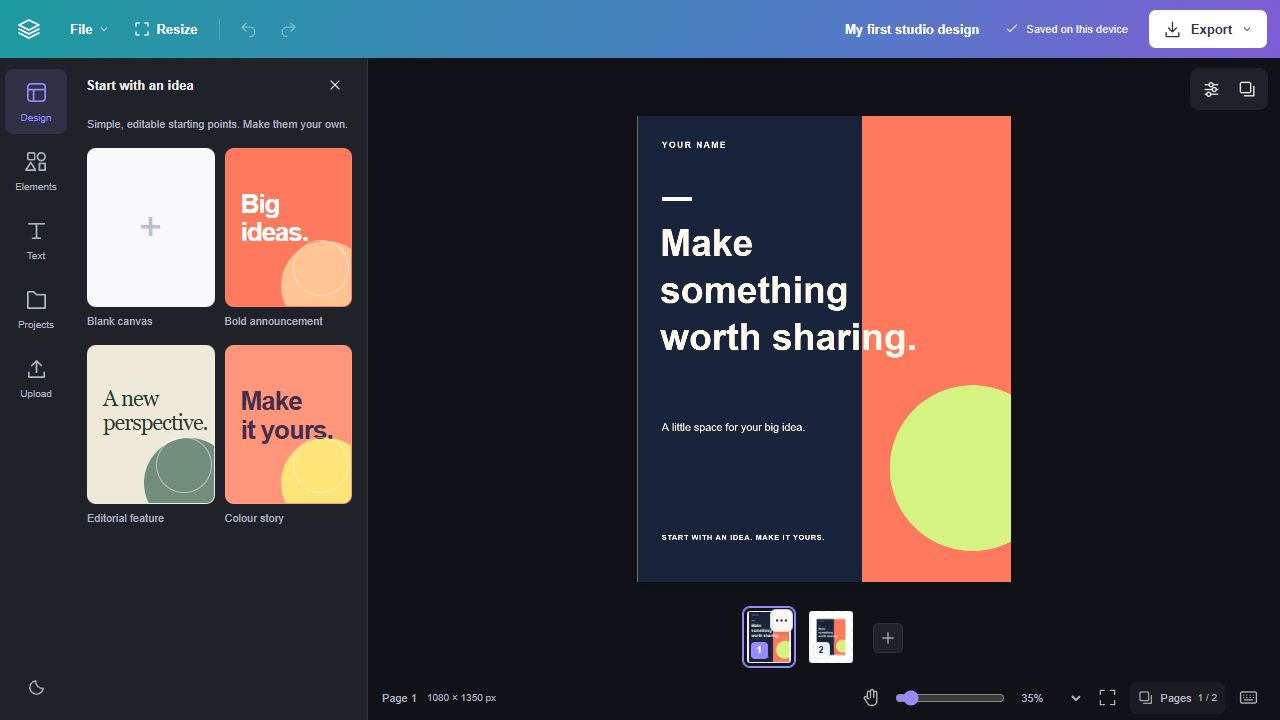
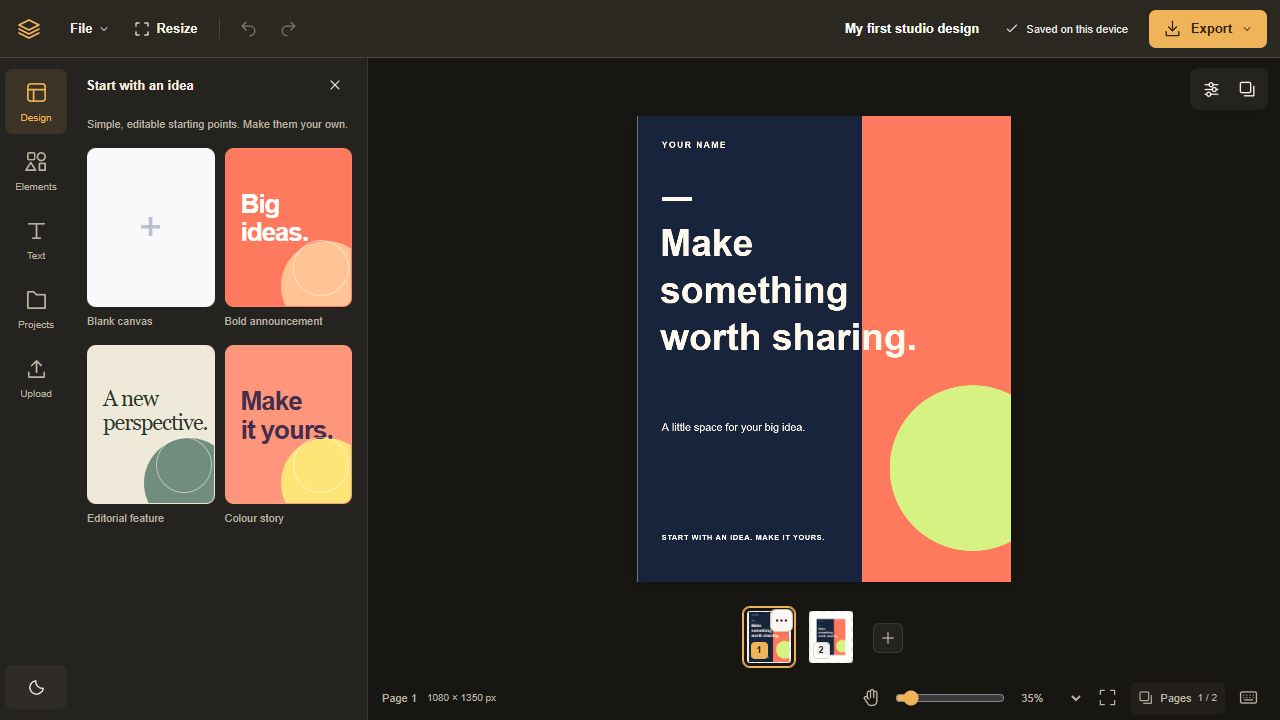
Give editor a charcoal and amber visual identity

diff --git a/src/ui/page-strip.css b/src/ui/page-strip.css
@@ -5,8 +5,8 @@
   min-width: 0;
   padding: 5px 12px 4px;
   border: 0;
-  background: var(--ms-stage-bg, var(--studio-inset, #edf0f4));
-  color: var(--ms-ink, #26354a);
+  background: var(--ms-stage-bg, var(--studio-inset, #eee9df));
+  color: var(--ms-ink, #302a22);
   font: 12px/1.4 Inter, Arial, sans-serif;
 }
 .ms-filmstrip, .ms-filmstrip * { box-sizing: border-box; }
@@ -14,54 +14,54 @@
 .ms-filmstrip-track { display: flex; align-items: center; gap: 5px; width: max-content; max-width: 100%; min-width: 0; margin-inline: auto; }
 .ms-filmstrip-list { --ms-filmstrip-card-width: clamp(52px, calc(var(--ms-filmstrip-preview-height) * var(--ms-filmstrip-page-ratio, .8) + 8px), 104px); display: flex; flex: 0 1 auto; gap: 10px; min-width: 0; margin: 0; padding: 3px 4px 5px; list-style: none; overflow-x: auto; overscroll-behavior-x: contain; scrollbar-width: thin; scroll-padding-inline: 5px; }
 .ms-filmstrip-slide { position: relative; display: flex; flex: 0 0 var(--ms-filmstrip-card-width); flex-direction: column; min-width: 0; padding: 3px; border: 1px solid transparent; border-radius: 7px; background: transparent; }
-.ms-filmstrip-slide.is-selected { border-color: var(--ms-accent, #078492); box-shadow: 0 0 0 1px var(--ms-accent, #078492); }
+.ms-filmstrip-slide.is-selected { border-color: var(--ms-accent, #96600f); box-shadow: 0 0 0 1px var(--ms-accent, #96600f); }
 .ms-filmstrip-slide[draggable=true] { cursor: grab; }
 .ms-filmstrip-slide.is-dragging { opacity: .48; }
-.ms-filmstrip-slide.has-drop-before::before, .ms-filmstrip-slide.has-drop-after::after { content: ''; position: absolute; z-index: 2; top: 0; bottom: 0; width: 3px; border-radius: 2px; background: var(--ms-accent, #078492); }
+.ms-filmstrip-slide.has-drop-before::before, .ms-filmstrip-slide.has-drop-after::after { content: ''; position: absolute; z-index: 2; top: 0; bottom: 0; width: 3px; border-radius: 2px; background: var(--ms-accent, #96600f); }
 .ms-filmstrip-slide.has-drop-before::before { left: -7px; }
 .ms-filmstrip-slide.has-drop-after::after { right: -7px; }
 .ms-filmstrip button { font: inherit; cursor: pointer; box-shadow: none; }
 .ms-filmstrip button:disabled { cursor: not-allowed; opacity: .42; }
-.ms-filmstrip button:focus-visible { outline: 3px solid color-mix(in srgb, var(--ms-accent, #078492) 50%, transparent); outline-offset: 2px; }
+.ms-filmstrip button:focus-visible { outline: 3px solid color-mix(in srgb, var(--ms-accent, #96600f) 50%, transparent); outline-offset: 2px; }
 .ms-filmstrip .ms-filmstrip-select { display: flex; flex-direction: column; align-items: stretch; width: 100%; min-width: 0; padding: 0; border: 0; border-radius: 4px; background: none; color: inherit; text-align: left; }
 .ms-filmstrip .ms-filmstrip-select:disabled { opacity: .7; }
-.ms-filmstrip-preview { position: relative; display: flex; align-items: center; justify-content: center; height: var(--ms-filmstrip-preview-height); min-width: 0; overflow: hidden; border: 1px solid var(--ms-border, #dbe3ee); border-radius: 3px; box-shadow: 0 1px 3px #142c3812; background-image: repeating-conic-gradient(#e9edf0 0% 25%, #fff 0% 50%); background-size: 10px 10px; }
+.ms-filmstrip-preview { position: relative; display: flex; align-items: center; justify-content: center; height: var(--ms-filmstrip-preview-height); min-width: 0; overflow: hidden; border: 1px solid var(--ms-border, #e4d9c9); border-radius: 3px; box-shadow: 0 1px 3px #2b221412; background-image: repeating-conic-gradient(#ece5d9 0% 25%, #fff 0% 50%); background-size: 10px 10px; }
 .ms-filmstrip-preview img { display: block; width: 100%; height: 100%; object-fit: contain; pointer-events: none; user-select: none; }
-.ms-filmstrip-placeholder { display: flex; flex-direction: column; align-items: center; justify-content: center; gap: 3px; width: 100%; height: 100%; padding: 4px; background: var(--studio-inset, #eef1f5); color: var(--ms-muted, #64748b); font-size: 8px; line-height: 1.3; text-align: center; }
+.ms-filmstrip-placeholder { display: flex; flex-direction: column; align-items: center; justify-content: center; gap: 3px; width: 100%; height: 100%; padding: 4px; background: var(--studio-inset, #f5efe5); color: var(--ms-muted, #73695c); font-size: 8px; line-height: 1.3; text-align: center; }
 .ms-filmstrip-placeholder svg { flex: none; width: 17px; height: 17px; opacity: .65; }
-.ms-filmstrip-preview-state { position: absolute; right: 4px; bottom: 5px; width: 6px; height: 6px; padding: 0; overflow: hidden; border-radius: 50%; background: #016e7d; box-shadow: 0 0 0 2px #ffffffd9; font-size: 0; }
-.ms-filmstrip-preview-state.is-error { background: #b6334b; }
-.ms-filmstrip-number { position: absolute; left: 3px; bottom: 3px; display: grid; place-items: center; min-width: 17px; height: 17px; padding: 0 4px; border: 1px solid #c6d4dc80; border-radius: 4px; background: #ffffffed; color: #26354a; font-size: 9px; font-weight: 600; line-height: 1; font-variant-numeric: tabular-nums; }
-.ms-filmstrip-slide.is-selected .ms-filmstrip-number { border-color: var(--ms-accent, #078492); background: var(--ms-accent, #078492); color: #fff; }
+.ms-filmstrip-preview-state { position: absolute; right: 4px; bottom: 5px; width: 6px; height: 6px; padding: 0; overflow: hidden; border-radius: 50%; background: var(--ms-accent, #96600f); box-shadow: 0 0 0 2px #ffffffd9; font-size: 0; }
+.ms-filmstrip-preview-state.is-error { background: var(--studio-err, #a33e2c); }
+.ms-filmstrip-number { position: absolute; left: 3px; bottom: 3px; display: grid; place-items: center; min-width: 17px; height: 17px; padding: 0 4px; border: 1px solid #ccbaa080; border-radius: 4px; background: #ffffffed; color: #302a22; font-size: 9px; font-weight: 600; line-height: 1; font-variant-numeric: tabular-nums; }
+.ms-filmstrip-slide.is-selected .ms-filmstrip-number { border-color: var(--ms-accent, #96600f); background: var(--ms-accent, #96600f); color: var(--studio-on-accent, #fff9ef); }
 .ms-filmstrip-more { position: absolute; top: 0; right: 0; z-index: 3; width: 24px; height: 24px; margin: 0; padding: 0; opacity: 0; pointer-events: none; }
 .ms-filmstrip-slide:hover .ms-filmstrip-more, .ms-filmstrip-slide:focus-within .ms-filmstrip-more, .ms-filmstrip-slide.is-selected .ms-filmstrip-more, .ms-filmstrip-more[open] { opacity: 1; pointer-events: auto; }
-.ms-filmstrip-more > summary { display: grid; place-items: center; width: 24px; height: 24px; margin: 0; padding: 0; border: 0; border-radius: 7px; background: none; color: #26354a; cursor: pointer; list-style: none; }
+.ms-filmstrip-more > summary { display: grid; place-items: center; width: 24px; height: 24px; margin: 0; padding: 0; border: 0; border-radius: 7px; background: none; color: #302a22; cursor: pointer; list-style: none; }
 .ms-filmstrip-more > summary::-webkit-details-marker { display: none; }
 .ms-filmstrip-more > summary::marker { content: ''; }
-.ms-filmstrip-more > summary > span { display: grid; place-items: center; width: 23px; height: 23px; border: 1px solid #c6d4dccc; border-radius: 6px; background: #ffffffed; box-shadow: 0 1px 4px #142c3826; }
+.ms-filmstrip-more > summary > span { display: grid; place-items: center; width: 23px; height: 23px; border: 1px solid #ccbaa0cc; border-radius: 6px; background: #ffffffed; box-shadow: 0 1px 4px #2b221426; }
 .ms-filmstrip-more > summary svg { width: 15px; height: 15px; }
-.ms-filmstrip-more > summary:hover > span, .ms-filmstrip-more[open] > summary > span { border-color: #078492; background: #eaf7f7; }
-.ms-filmstrip-more > summary:focus-visible { outline: 3px solid var(--ms-accent, #078492); outline-offset: -2px; }
+.ms-filmstrip-more > summary:hover > span, .ms-filmstrip-more[open] > summary > span { border-color: #96600f; background: #fff0d7; }
+.ms-filmstrip-more > summary:focus-visible { outline: 3px solid var(--ms-accent, #96600f); outline-offset: -2px; }
 .ms-filmstrip-more > summary[aria-disabled=true] { opacity: .42; cursor: not-allowed; }
 /* This portal is deliberately independent of a Studio ancestor. Theme variables
    are copied from its summary before it opens in the browser's top layer. */
-.ms-filmstrip-menu { display: none; position: fixed; inset: auto; z-index: 10000; width: 216px; max-width: calc(100vw - 24px); max-height: calc(100dvh - 24px); overflow-y: auto; overscroll-behavior: contain; margin: 0; padding: 5px; border: 1px solid var(--ms-border, #dbe3ee); border-radius: 11px; background: var(--ms-bg, var(--studio-surface, #fff)); color: var(--ms-ink, #26354a); box-shadow: 0 10px 35px #142c3838; font: 12px/1.4 Inter, Arial, sans-serif; }
+.ms-filmstrip-menu { display: none; position: fixed; inset: auto; z-index: 10000; width: 216px; max-width: calc(100vw - 24px); max-height: calc(100dvh - 24px); overflow-y: auto; overscroll-behavior: contain; margin: 0; padding: 5px; border: 1px solid var(--ms-border, #e4d9c9); border-radius: 11px; background: var(--ms-bg, var(--studio-surface, #fff)); color: var(--ms-ink, #302a22); box-shadow: 0 10px 35px #2b221438; font: 12px/1.4 Inter, Arial, sans-serif; }
 .ms-filmstrip-menu[data-open=true] { display: grid; }
 .ms-filmstrip-menu, .ms-filmstrip-menu * { box-sizing: border-box; }
-.ms-filmstrip-menu-label { padding: 5px 10px 4px; color: var(--ms-muted, #64748b); font-size: 10px; font-weight: 600; }
+.ms-filmstrip-menu-label { padding: 5px 10px 4px; color: var(--ms-muted, #73695c); font-size: 10px; font-weight: 600; }
 .ms-filmstrip-menu .ms-filmstrip-menu-action { display: flex; align-items: center; gap: 10px; width: 100%; height: auto; min-height: 44px; margin: 0; padding: 10px; border: 0; border-radius: 6px; background: none; color: inherit; box-shadow: none; font: inherit; line-height: 1.4; text-align: left; cursor: pointer; }
 .ms-filmstrip-menu-action svg { flex: none; width: 16px; height: 16px; }
-.ms-filmstrip-menu .ms-filmstrip-menu-action:hover:not(:disabled) { background: var(--studio-control-hover, #e8f0f4); }
-.ms-filmstrip-menu .ms-filmstrip-menu-delete { color: var(--studio-err, #b6334c); }
-.ms-filmstrip-menu .ms-filmstrip-menu-delete:hover:not(:disabled) { background: var(--studio-danger-bg, #fff0f0); }
+.ms-filmstrip-menu .ms-filmstrip-menu-action:hover:not(:disabled) { background: var(--studio-control-hover, #ede5d8); }
+.ms-filmstrip-menu .ms-filmstrip-menu-delete { color: var(--studio-err, #a33e2c); }
+.ms-filmstrip-menu .ms-filmstrip-menu-delete:hover:not(:disabled) { background: var(--studio-danger-bg, #fff0eb); }
 .ms-filmstrip-menu .ms-filmstrip-menu-action:disabled { opacity: .42; cursor: not-allowed; }
-.ms-filmstrip-menu .ms-filmstrip-menu-action:focus-visible { outline: 3px solid color-mix(in srgb, var(--ms-accent, #078492) 55%, transparent); outline-offset: -2px; }
-.ms-filmstrip .ms-filmstrip-add { position: relative; display: grid; flex: 0 0 44px; place-items: center; align-self: center; width: 44px; min-width: 44px; height: 44px; min-height: 44px; margin: 0; padding: 0; border: 0; border-radius: 7px; background: transparent; color: var(--ms-muted, #64748b); }
-.ms-filmstrip-add::before { content: ''; position: absolute; inset: 7px; border: 1px solid var(--ms-border, #bdcbd7); border-radius: 6px; background: var(--ms-bg, #fff); }
+.ms-filmstrip-menu .ms-filmstrip-menu-action:focus-visible { outline: 3px solid color-mix(in srgb, var(--ms-accent, #96600f) 55%, transparent); outline-offset: -2px; }
+.ms-filmstrip .ms-filmstrip-add { position: relative; display: grid; flex: 0 0 44px; place-items: center; align-self: center; width: 44px; min-width: 44px; height: 44px; min-height: 44px; margin: 0; padding: 0; border: 0; border-radius: 7px; background: transparent; color: var(--ms-muted, #73695c); }
+.ms-filmstrip-add::before { content: ''; position: absolute; inset: 7px; border: 1px solid var(--ms-border, #d4c5ad); border-radius: 6px; background: var(--ms-bg, #fff); }
 .ms-filmstrip-add svg { position: relative; width: 18px; height: 18px; }
-.ms-filmstrip .ms-filmstrip-add:hover:not(:disabled) { color: var(--ms-accent, #078492); }
-.ms-filmstrip .ms-filmstrip-add:hover:not(:disabled)::before { border-color: var(--ms-accent, #078492); background: var(--ms-selected, var(--ms-bg, #fff)); }
-.ms-filmstrip .ms-filmstrip-retry { position: absolute; top: 0; right: 0; display: inline-flex; align-items: center; justify-content: center; width: 44px; height: 44px; padding: 10px; border: 0; border-radius: 5px; background: var(--ms-bg, #fff); color: var(--studio-link, #016e7d); }
+.ms-filmstrip .ms-filmstrip-add:hover:not(:disabled) { color: var(--ms-accent, #96600f); }
+.ms-filmstrip .ms-filmstrip-add:hover:not(:disabled)::before { border-color: var(--ms-accent, #96600f); background: var(--ms-selected, var(--ms-bg, #fff)); }
+.ms-filmstrip .ms-filmstrip-retry { position: absolute; top: 0; right: 0; display: inline-flex; align-items: center; justify-content: center; width: 44px; height: 44px; padding: 10px; border: 0; border-radius: 5px; background: var(--ms-bg, #fff); color: var(--studio-link, #96600f); }
 .ms-filmstrip-announcement { position: absolute; width: 1px; height: 1px; padding: 0; overflow: hidden; clip: rect(0, 0, 0, 0); white-space: nowrap; border: 0; }
 @media (max-height: 850px) {
   .ms-filmstrip { --ms-filmstrip-preview-height: 52px; padding-top: 3px; padding-bottom: 3px; }

diff --git a/src/styles.css b/src/styles.css
@@ -1,28 +1,29 @@
 * { box-sizing: border-box; }
-:root { font-family: Arial, Helvetica, sans-serif; color: #edf0f7; background: #111217; font-synthesis: none; text-rendering: optimizeLegibility; -webkit-font-smoothing: antialiased; }
+:root { font-family: Arial, Helvetica, sans-serif; color: #f5efe4; background: #171613; font-synthesis: none; text-rendering: optimizeLegibility; -webkit-font-smoothing: antialiased; }
 body { margin: 0; }
 button, input, textarea, select { font: inherit; }
 button, summary, select { cursor: pointer; }
 button { color: inherit; }
 button:disabled, select:disabled, input:disabled, textarea:disabled { opacity: .4; cursor: not-allowed; }
-button:focus-visible, summary:focus-visible, input:focus-visible, textarea:focus-visible, select:focus-visible { outline: 2px solid #a79eff; outline-offset: 3px; }
+button:focus-visible, summary:focus-visible, input:focus-visible, textarea:focus-visible, select:focus-visible { outline: 2px solid var(--ms-accent, #efb35a); outline-offset: 3px; }
 button { -webkit-tap-highlight-color: transparent; }
 svg { flex: none; }
 .sr-only { position: absolute !important; width: 1px !important; height: 1px !important; padding: 0 !important; margin: -1px !important; overflow: hidden !important; clip-path: inset(50%) !important; white-space: nowrap !important; border: 0 !important; }
 .studio {
-  --ms-bg: #202229; --ms-ink: #edf0f7; --ms-muted: #b0b5c4; --ms-border: #ffffff15; --ms-accent: #978bff; --ms-selected: #978bff22; --ms-stage-bg: #111217;
-  --studio-control-hover: #ffffff0b; --studio-inset: #111217; --studio-link: #b5aaff; --studio-err: #ff9aaf;
+  --ms-bg: #25231f; --ms-ink: #f5efe4; --ms-muted: #bcb2a2; --ms-border: #f5dfb51c; --ms-accent: #efb35a; --ms-selected: #efb35a1c; --ms-stage-bg: #171613;
+  --studio-control-hover: #f5dfb50c; --studio-inset: #1b1915; --studio-link: #f4c782; --studio-err: #f3a193; --studio-on-accent: #30220e; --studio-danger-bg: #f3a19312;
   --panel: 296px; --inspector: 278px; --rail: 72px;
   display: flex; flex-direction: column; width: 100%; height: 100dvh; min-height: 350px; color: var(--ms-ink); background: var(--ms-stage-bg); overflow: hidden; font-size: 13px;
 }
-.studio[data-theme="light"] { --ms-bg: #fff; --ms-ink: #283043; --ms-muted: #697187; --ms-border: #dfe3eb; --ms-accent: #7767df; --ms-selected: #7965ee12; --ms-stage-bg: #eff1f5; --studio-control-hover: #eff0f6; --studio-inset: #f4f5f9; --studio-link: #6556ce; --studio-err: #a92747; }
-.topbar { display: flex; align-items: center; flex: none; height: 58px; gap: 4px; padding: 6px 13px 6px 11px; background: linear-gradient(105deg, #1d9aa0, #537bc7 65%, #7e5dd4); color: #fff; z-index: 50; }
+.studio[data-theme="light"] { --ms-bg: #fffcf7; --ms-ink: #302a22; --ms-muted: #73695c; --ms-border: #e4d9c9; --ms-accent: #96600f; --ms-selected: #b2761612; --ms-stage-bg: #eee9df; --studio-control-hover: #ede5d8; --studio-inset: #f5efe5; --studio-link: #8a540a; --studio-err: #a33e2c; --studio-on-accent: #fff9ef; --studio-danger-bg: #a33e2c0d; }
+.topbar { display: flex; align-items: center; flex: none; height: 58px; gap: 4px; padding: 6px 13px 6px 11px; border-bottom: 1px solid #efb35a38; background: #2b2721; color: #f5efe4; z-index: 50; }
 .brand-button, .icon-button, .header-command { display: inline-flex; align-items: center; justify-content: center; gap: 6px; flex: none; width: 36px; min-width: 36px; height: 36px; padding: 5px; border: 0; border-radius: 7px; background: transparent; color: inherit; box-shadow: none; }
-.brand-button { margin-right: 9px; }
+.brand-button { margin-right: 9px; color: #efb35a; }
 .icon-button:hover:not(:disabled), .header-command:hover:not(:disabled), .brand-button:hover { background: var(--studio-control-hover); }
-.topbar .icon-button:hover:not(:disabled), .topbar .header-command:hover:not(:disabled), .topbar .brand-button:hover, .file-menu > summary:hover { background: #ffffff1c; }
+.topbar .icon-button:hover:not(:disabled), .topbar .header-command:hover:not(:disabled), .topbar .brand-button:hover, .file-menu > summary:hover { background: #efb35a1c; }
+.topbar :is(button, summary, input):focus-visible { outline-color: #efb35a; }
 .header-command { width: auto; padding: 8px 10px; font-size: 13px; font-weight: 600; }
-.header-divider { height: 21px; width: 1px; margin: 0 7px; background: #ffffff30; }
+.header-divider { height: 21px; width: 1px; margin: 0 7px; background: #efb35a30; }
 .design-title { display: flex; flex: 1; min-width: 0; justify-content: flex-end; margin-left: auto; }
 .design-title input { width: min(100%, 300px); height: 34px; min-width: 0; padding: 5px 10px; border: 1px solid transparent; border-radius: 6px; background: transparent; color: #fff; text-align: right; font-size: 13px; font-weight: 600; text-overflow: ellipsis; }
 .design-title input:hover, .design-title input:focus { border-color: #ffffff40; background: #ffffff0c; }
@@ -34,8 +35,8 @@ svg { flex: none; }
 .file-menu > summary, .export-command { display: inline-flex; align-items: center; justify-content: center; gap: 6px; min-height: 36px; padding: 8px 10px; border-radius: 7px; list-style: none; font-weight: 600; }
 summary::-webkit-details-marker { display: none; }
 .export-menu { margin-left: 7px; }
-.export-command { gap: 9px; background: #fff; color: #31334b; min-height: 38px; padding-inline: 14px; }
-.export-command:hover { background: #f2edff; }
+.export-command { gap: 9px; background: #efb35a; color: #30220e; min-height: 38px; padding-inline: 14px; }
+.export-command:hover { background: #f6c782; }
 .dropdown { position: absolute; left: 0; top: calc(100% + 10px); width: 280px; max-width: calc(100vw - 20px); max-height: calc(100dvh - 84px); overflow-y: auto; overscroll-behavior: contain; padding: 9px; border: 1px solid var(--ms-border); border-radius: 12px; background: var(--ms-bg); color: var(--ms-ink); box-shadow: 0 16px 40px #0004; z-index: 90; }
 .dropdown > button:not(.button):not(.text-button) { display: flex; align-items: center; gap: 10px; width: 100%; min-height: 40px; padding: 10px; border: 0; border-radius: 7px; background: none; color: var(--ms-ink); text-align: left; font-size: 12px; }
 .dropdown > button:not(:disabled):hover { background: var(--studio-control-hover); }
@@ -46,9 +47,9 @@ summary::-webkit-details-marker { display: none; }
 .export-settings { display: grid; gap: 13px; left: auto; right: 0; width: 290px; padding: 19px; }
 .export-settings > strong { font-size: 15px; }
 .export-settings p { margin: 0; }
-.notice { display: flex; align-items: center; gap: 10px; flex: none; padding: 5px 15px; background: #193c37; color: #cbf5e9; font-size: 12px; line-height: 1.5; z-index: 45; }
+.notice { display: flex; align-items: center; gap: 10px; flex: none; padding: 5px 15px; background: #35402d; color: #e4efce; font-size: 12px; line-height: 1.5; z-index: 45; }
 .notice > span { flex: 1; }
-.notice.error { background: #512c3a; color: #ffe0e8; }
+.notice.error { background: #512e25; color: #ffe1d7; }
 .notice .icon-button { width: 30px; height: 30px; min-width: 30px; }
 .workspace { display: grid; grid-template-columns: var(--rail) minmax(0, 1fr); flex: 1; min-width: 0; min-height: 0; position: relative; overflow: hidden; }
 .panel-open .workspace { grid-template-columns: var(--rail) var(--panel) minmax(0, 1fr); }
@@ -68,7 +69,7 @@ summary::-webkit-details-marker { display: none; }
 .help { margin: 0 0 14px; font-size: 11px; line-height: 1.7; color: var(--ms-muted); }
 .button { display: inline-flex; align-items: center; justify-content: center; gap: 8px; min-height: 37px; padding: 9px 12px; border: 1px solid var(--ms-border); border-radius: 8px; background: var(--studio-control-hover); color: var(--ms-ink); font-size: 12px; font-weight: 600; }
 .button:hover:not(:disabled) { border-color: var(--ms-accent); }
-.button.primary { border-color: #8173eb; background: #8173eb; color: #fff; }
+.button.primary { border-color: var(--ms-accent); background: var(--ms-accent); color: var(--studio-on-accent); }
 .full { width: 100%; margin-bottom: 14px; }
 .text-button { min-height: 34px; border: 0; border-radius: 6px; background: transparent; color: var(--ms-accent); font-size: 11px; }
 .template-grid { display: grid; grid-template-columns: repeat(2, minmax(0, 1fr)); gap: 18px 10px; }
@@ -162,7 +163,7 @@ label { display: grid; gap: 7px; min-width: 0; color: var(--ms-muted); font-size
 .size-presets .button { flex: 1; min-width: 0; padding-inline: 4px; font-size: 10px; }
 .palette { display: grid; gap: 10px; padding-top: 12px; border-top: 1px solid var(--ms-border); color: var(--ms-muted); font-size: 11px; }
 .palette > div { display: flex; flex-wrap: wrap; gap: 8px; }
-.palette button { width: 23px; height: 23px; padding: 0; border: 1px solid #9da7ba55; border-radius: 50%; }
+.palette button { width: 23px; height: 23px; padding: 0; border: 1px solid #9d8b7055; border-radius: 50%; }
 .layers-list { padding: 15px 10px; }
 .layers-list > .help { padding-inline: 4px; }
 .layer-row { display: flex; align-items: center; gap: 3px; margin-bottom: 7px; border: 1px solid transparent; border-radius: 8px; }
@@ -175,7 +176,7 @@ label { display: grid; gap: 7px; min-width: 0; color: var(--ms-muted); font-size
 .layer-row .icon-button { min-width: 28px; width: 28px; }
 .panel-scrim { display: none; }
 .shortcuts-dialog { width: 480px; max-width: calc(100vw - 24px); max-height: calc(100dvh - 32px); margin: auto; padding: 0; border: 1px solid var(--ms-border); border-radius: 15px; background: var(--ms-bg); color: var(--ms-ink); box-shadow: 0 20px 80px #0007; }
-.shortcuts-dialog::backdrop { background: #0809129c; backdrop-filter: blur(4px); }
+.shortcuts-dialog::backdrop { background: #100e0b9c; backdrop-filter: blur(4px); }
 .shortcuts-dialog .panel-heading { min-height: 60px; padding-inline: 20px; border-bottom: 1px solid var(--ms-border); }
 .shortcut-content { padding: 9px 22px 18px; }
 .shortcut-content > div { display: flex; align-items: center; justify-content: space-between; gap: 14px; min-height: 36px; border-bottom: 1px solid var(--ms-border); font-size: 12px; }
@@ -207,7 +208,7 @@ label { display: grid; gap: 7px; min-width: 0; color: var(--ms-muted); font-size
   .export-settings { position: fixed; top: 60px; right: 8px; }
   .workspace, .panel-open .workspace, .inspector-open .workspace, .panel-open.inspector-open .workspace { grid-template-columns: var(--rail) minmax(0, 1fr); }
   .resource-panel { position: absolute; top: 0; bottom: 0; left: var(--rail); width: min(320px, calc(100% - var(--rail))); z-index: 24; box-shadow: 12px 0 32px #0004; }
-  .panel-scrim { display: block; position: absolute; inset: 0 0 0 var(--rail); border: 0; border-radius: 0; background: #08091270; z-index: 20; }
+  .panel-scrim { display: block; position: absolute; inset: 0 0 0 var(--rail); border: 0; border-radius: 0; background: #100e0b70; z-index: 20; }
   .tool-rail { padding: 7px 4px; gap: 3px; }
   .tool-rail button { min-height: 61px; font-size: 9px; gap: 7px; }
   .canvas-stage { padding: 64px 15px 16px; }

diff --git a/src/ui/PageStrip.tsx b/src/ui/PageStrip.tsx
@@ -167,7 +167,7 @@ function FilmstripActions({ props, retry }: { props: SlideProps; retry?: () => v
     if (!open || !menu.current || !summary.current) return;
     const panel = menu.current, anchor = summary.current;
     const theme = getComputedStyle(anchor);
-    for (const property of ['--ms-bg', '--ms-ink', '--ms-muted', '--ms-border', '--ms-accent', '--portal-surface', '--portal-inset', '--portal-control-hover', '--portal-danger-bg', '--portal-err', '--portal-link']) {
+    for (const property of ['--ms-bg', '--ms-ink', '--ms-muted', '--ms-border', '--ms-accent', '--studio-surface', '--studio-inset', '--studio-control-hover', '--studio-danger-bg', '--studio-err', '--studio-link']) {
       const value = theme.getPropertyValue(property).trim();
       if (value) panel.style.setProperty(property, value);
     }

diff --git a/src/core/canvas.ts b/src/core/canvas.ts
@@ -95,7 +95,7 @@ export async function pageObjects(page: DesignPage, editable: boolean): Promise<
         lockMovementX: element.locked, lockMovementY: element.locked,
         lockScalingX: element.locked, lockScalingY: element.locked, lockRotation: element.locked,
         lockScalingFlip: true, strokeWidth: 0, padding: 5,
-        cornerColor: '#6656db', borderColor: '#6656db', cornerStrokeColor: '#ffffff',
+        cornerColor: '#c78324', borderColor: '#c78324', cornerStrokeColor: '#ffffff',
         transparentCorners: false, cornerStyle: 'circle' as const,
       };
       let object: LayerObject;
